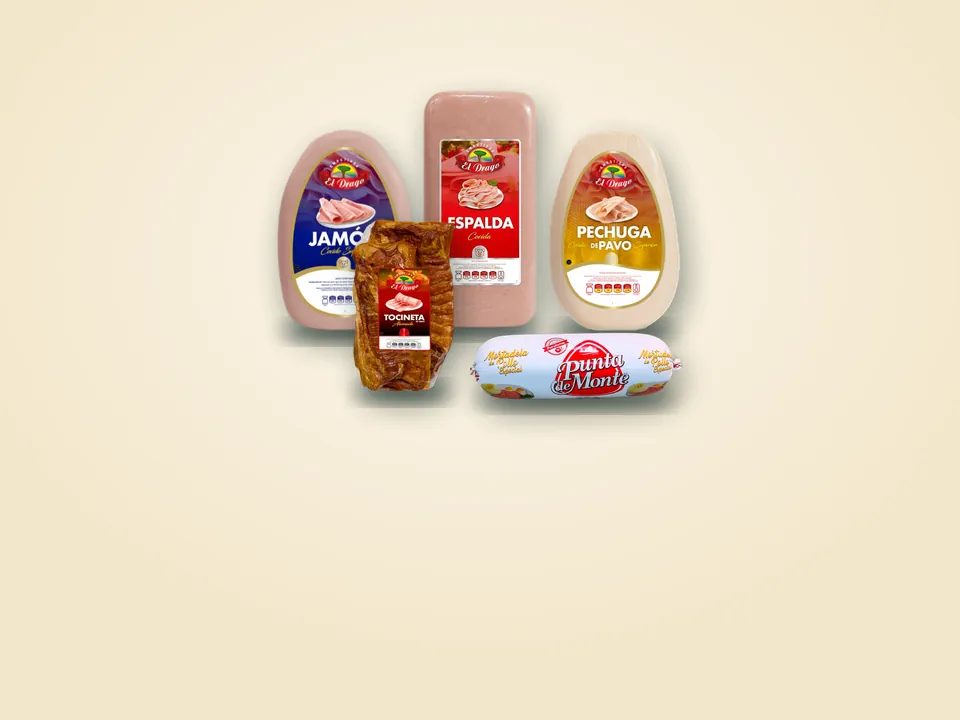
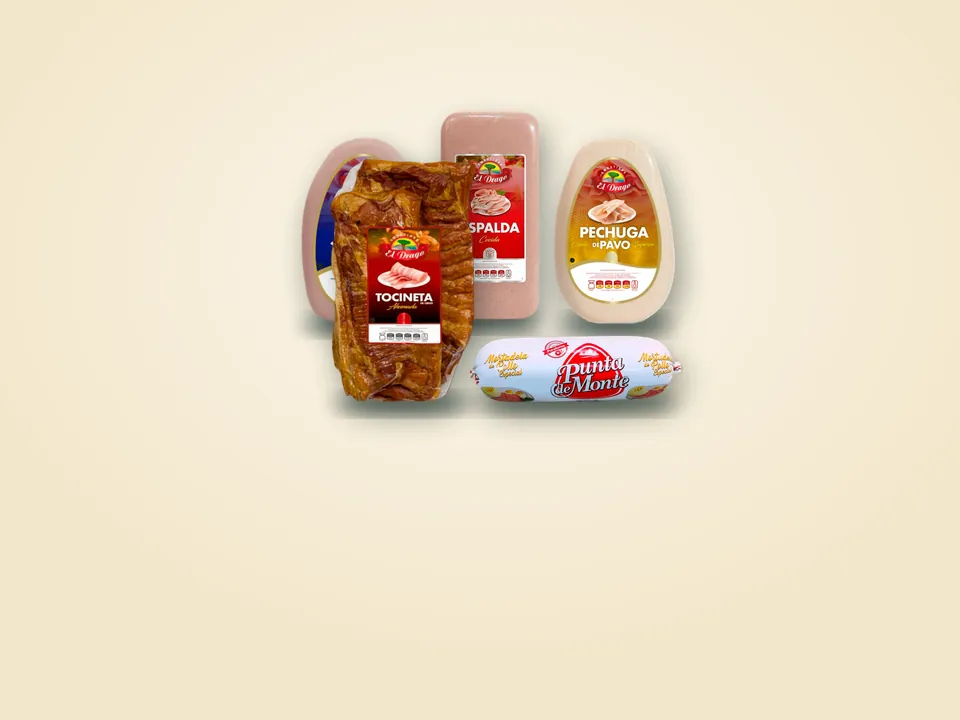
La charcutería en la web, sin el Kemmental y con la tocineta más grande que el jamón.
El dueño: «añade a mi página web todo lo que ya tengo en la charcutería», «quita ese diseño el
emmental, no lo vendo», «la tocineta ya sabes que es más grande». Los productos van en la base
(costo de la lista del detal + 10 %, unidos a ella); aquí, lo que cambia en el código y las fotos:
- La portada y las familias Quesos, Embutidos y Burger, sin el Kemmental (va el Mi Vallecito) y con
  la tocineta delante y más grande que los jamones; en los combos, la tocineta pasa de 28 a 36 cm.
- En la página de un tipo, un artículo sin foto propia ya no se enseña con la de otra marca (Punta
  de Monte salía con el paquete de Alibal): la del tipo, la de referencia o el león.

Changed region(s): [[0.2812, 0.1222, 0.7188, 0.6111]]

diff --git a/scripts/fotos-web.ts b/scripts/fotos-web.ts
@@ -38,13 +38,14 @@ const ESCENAS: Escena[] = [
     fondo: VERDE_HONDO,
     luz: "rgba(240, 194, 79, 0.30)",
     piezas: [
-      { foto: "jamon-de-pierna", x: 0.55, apoyo: 0.77, alto: 0.44 },
-      { foto: "queso-kemmental", x: 0.67, apoyo: 0.76, alto: 0.53 },
-      { foto: "jamon-de-espalda", x: 0.79, apoyo: 0.77, alto: 0.51 },
-      { foto: "tocineta", x: 0.515, apoyo: 0.9, alto: 0.37 },
-      { foto: "mozzarella", x: 0.62, apoyo: 0.91, alto: 0.31 },
-      { foto: "queso-amarillo", x: 0.735, apoyo: 0.92, alto: 0.42 },
-      { foto: "pecorino-sortilegio", x: 0.845, apoyo: 0.93, alto: 0.26 },
+      // La tocineta, delante y más grande que el jamón, como es (el dueño, 15/11/2026); el jamón de pierna, que quedaba
+      // tapado detrás de ella, sale en la del teléfono y en Embutidos.
+      { foto: "queso-amarillo-vallecito", x: 0.7, apoyo: 0.76, alto: 0.5 },
+      { foto: "jamon-de-espalda", x: 0.81, apoyo: 0.77, alto: 0.47 },
+      { foto: "tocineta", x: 0.555, apoyo: 0.93, alto: 0.56 },
+      { foto: "mozzarella", x: 0.665, apoyo: 0.92, alto: 0.31 },
+      { foto: "queso-amarillo", x: 0.775, apoyo: 0.93, alto: 0.42 },
+      { foto: "pecorino-sortilegio", x: 0.88, apoyo: 0.94, alto: 0.26 },
     ],
   },
   // En el teléfono: los productos arriba, en el centro; abajo, el verde donde monta el título.
@@ -55,13 +56,13 @@ const ESCENAS: Escena[] = [
     fondo: VERDE_HONDO,
     luz: "rgba(240, 194, 79, 0.32)",
     piezas: [
-      { foto: "jamon-de-pierna", x: 0.23, apoyo: 0.58, alto: 0.37 },
-      { foto: "queso-kemmental", x: 0.5, apoyo: 0.57, alto: 0.46 },
-      { foto: "jamon-de-espalda", x: 0.77, apoyo: 0.58, alto: 0.44 },
-      { foto: "tocineta", x: 0.17, apoyo: 0.73, alto: 0.31 },
-      { foto: "mozzarella", x: 0.39, apoyo: 0.74, alto: 0.26 },
-      { foto: "queso-amarillo", x: 0.61, apoyo: 0.75, alto: 0.36 },
-      { foto: "pecorino-sortilegio", x: 0.84, apoyo: 0.76, alto: 0.21 },
+      { foto: "jamon-de-pierna", x: 0.36, apoyo: 0.58, alto: 0.35 },
+      { foto: "queso-amarillo-vallecito", x: 0.57, apoyo: 0.57, alto: 0.42 },
+      { foto: "jamon-de-espalda", x: 0.79, apoyo: 0.58, alto: 0.4 },
+      { foto: "tocineta", x: 0.18, apoyo: 0.75, alto: 0.47 },
+      { foto: "mozzarella", x: 0.42, apoyo: 0.75, alto: 0.25 },
+      { foto: "queso-amarillo", x: 0.63, apoyo: 0.76, alto: 0.35 },
+      { foto: "pecorino-sortilegio", x: 0.85, apoyo: 0.77, alto: 0.2 },
     ],
   },
   // Las familias y las colecciones, en 4:3. La misma foto sale en la tarjeta (cuadrada en el teléfono, apaisada en la
@@ -75,7 +76,7 @@ const ESCENAS: Escena[] = [
     luz: "rgba(255, 248, 225, 0.55)",
     alturaDeLaLuz: 0.36,
     piezas: [
-      { foto: "queso-kemmental", x: 0.39, apoyo: 0.47, alto: 0.32 },
+      { foto: "queso-amarillo-vallecito", x: 0.39, apoyo: 0.47, alto: 0.33 },
       { foto: "queso-amarillo", x: 0.55, apoyo: 0.48, alto: 0.33 },
       { foto: "mozzarella", x: 0.45, apoyo: 0.545, alto: 0.21 },
       { foto: "pecorino-sortilegio", x: 0.63, apoyo: 0.55, alto: 0.17 },
@@ -89,11 +90,11 @@ const ESCENAS: Escena[] = [
     luz: "rgba(255, 255, 255, 0.6)",
     alturaDeLaLuz: 0.36,
     piezas: [
-      { foto: "jamon-de-pierna", x: 0.36, apoyo: 0.46, alto: 0.28 },
-      { foto: "jamon-de-espalda", x: 0.5, apoyo: 0.455, alto: 0.33 },
-      { foto: "pechuga-de-pavo-drago", x: 0.64, apoyo: 0.46, alto: 0.28 },
-      { foto: "tocineta", x: 0.42, apoyo: 0.545, alto: 0.24 },
-      { foto: "mortadela-punta-de-monte", x: 0.6, apoyo: 0.555, alto: 0.095, giro: -90 },
+      { foto: "jamon-de-pierna", x: 0.38, apoyo: 0.45, alto: 0.26 },
+      { foto: "jamon-de-espalda", x: 0.51, apoyo: 0.445, alto: 0.29 },
+      { foto: "pechuga-de-pavo-drago", x: 0.64, apoyo: 0.45, alto: 0.26 },
+      { foto: "tocineta", x: 0.42, apoyo: 0.56, alto: 0.34 },
+      { foto: "mortadela-punta-de-monte", x: 0.6, apoyo: 0.56, alto: 0.095, giro: -90 },
     ],
   },
   {
@@ -126,11 +127,11 @@ const ESCENAS: Escena[] = [
     luz: "rgba(240, 194, 79, 0.32)",
     alturaDeLaLuz: 0.36,
     piezas: [
-      { foto: "queso-kemmental", x: 0.39, apoyo: 0.47, alto: 0.31 },
-      { foto: "jamon-de-espalda", x: 0.6, apoyo: 0.47, alto: 0.32 },
-      { foto: "tocineta", x: 0.44, apoyo: 0.55, alto: 0.24 },
-      { foto: "queso-amarillo", x: 0.53, apoyo: 0.555, alto: 0.28 },
-      { foto: "salchichas", x: 0.66, apoyo: 0.56, alto: 0.15 },
+      { foto: "queso-amarillo-vallecito", x: 0.38, apoyo: 0.47, alto: 0.31 },
+      { foto: "jamon-de-espalda", x: 0.61, apoyo: 0.47, alto: 0.29 },
+      { foto: "tocineta", x: 0.45, apoyo: 0.56, alto: 0.34 },
+      { foto: "queso-amarillo", x: 0.56, apoyo: 0.56, alto: 0.27 },
+      { foto: "salchichas", x: 0.67, apoyo: 0.565, alto: 0.15 },
     ],
   },
   {

diff --git a/src/app/producto/[producto]/page.tsx b/src/app/producto/[producto]/page.tsx
@@ -140,6 +140,9 @@ export default async function PaginaProducto({ params, searchParams }: Parametro
     .map((r) => ({ ...r, etiqueta: variantes.length > 1 && r.variante_id ? (variantes.find((m) => m.id === r.variante_id)?.marca || r.variante_nombre) : null }));
   const ventajas = [...new Set([...ventajasDe(producto.descripcion), ...(unico ? ventajasDe(unico.descripcion) : [])])];
   const imagen = imagenDeProducto(direccionDeFotoDeProducto(producto), producto.nombre, fotoDeAlgunaVariante(variantes));
+  // Un artículo sin foto propia no se enseña con la de otra marca (Punta de Monte con el paquete de Alibal): la del tipo,
+  // la de referencia o el león, como en la página de cada marca.
+  const sinFotoPropia = imagenDeProducto(direccionDeFotoDeProducto(producto), producto.nombre);
   const familia = v.todasLasFamilias.find((f) => f.id === producto.familia_id) ?? null;
   // Debajo, primero los de su misma familia (los otros quesos), después los que comparten con él un negocio o una familia
   // (la mozzarella y los jamones, en Pizzería) y, si no hay ninguno, otros cualquiera. El título dice cuál es el caso.
@@ -253,7 +256,7 @@ export default async function PaginaProducto({ params, searchParams }: Parametro
                     <li key={m.id} className={estilos.variante}>
                       <Link href={ruta} className={estilos.varianteEnlace} aria-label={`Ver ${producto.nombre} ${m.nombre}`}>
                         <FotoDeProducto
-                          imagen={suFoto ? { src: suFoto, referencial: false } : imagen}
+                          imagen={suFoto ? { src: suFoto, referencial: false } : sinFotoPropia}
                           nombre={`${producto.nombre} ${m.nombre}`}
                           className={estilos.varianteFoto}
                           aviso

diff --git a/publicidad/combos-datos.js b/publicidad/combos-datos.js
@@ -25,7 +25,8 @@ const CM = {
   "pechuga-de-pavo-ahumada": 29,
   huevos: 9,
   salchichas: 17,
-  tocineta: 28,
+  // Más grande que los jamones, como es (el dueño, 15/11/2026: «la tocineta ya sabes que es más grande»); era de 28.
+  tocineta: 36,
   // Casi tan alta como el queso amarillo: con 30, en el combo 9 el queso se veía muy pequeño a su lado (el dueño, 13/11).
   "mortadela-punta-de-monte": 27,
   "pan-de-sandwich": 34,

diff --git a/README.md b/README.md
@@ -1483,6 +1483,23 @@ Binance y otro.
   los huevos por caja o por unidad son presentaciones de Huevos, los
   refrescos individuales y familiares, de Refrescos, y las papas ralladas
   son los hash browns.
+- **La charcutería en la web** (el dueño, 15/11/2026: «añade a mi página web
+  todo lo que ya tengo en la charcutería en las facturas que te he pasado»).
+  Cada producto de la charcutería de la lista del detal que se sigue
+  comprando es un artículo del catálogo, con su marca, y está unido a su
+  producto de la lista (`lista_detal.producto_id`, `variante_id`): las
+  facturas siguientes le cambian el costo solas. El precio al mayor es el
+  costo más un 10 % (`margen_pct` del tipo), la misma regla de la mozzarella
+  y del Sortilegio. En Embutidos, por secciones: Jamones (de espalda, de
+  pierna, ahumado, arepero), Pavo (pechuga), Mortadelas y boloña (la
+  mortadela por kilo, la «Mortadela en pieza» de 1 kg y 500 g, que va por
+  unidad, y la boloña de pollo), Salchichas (de paquete y a granel) y
+  Tocineta; en Quesos, el queso amarillo (El Legado y Mi Vallecito; el
+  Kemmental, que no se vende, escondido) y el pecorino; en Lácteos, los
+  sueros y las cremas de leche. Lo que la lista marca «ya no se compra» no
+  entra. Las fotos son las de su mercancía recortada (`publicidad/fotos/`);
+  un artículo sin foto propia se enseña con la del tipo, la de referencia o
+  el león, nunca con la de otra marca.
 - **Ofertas y combos** (`/admin/ofertas`): cada oferta tiene nombre,
   descripción, precio en dólares (vacío: «consulta el precio»), fechas
   desde y hasta (vacías: sin límite), estado (borrador, activa, inactiva),
@@ -1600,7 +1617,9 @@ Binance y otro.
   la dirección y la ubicación para el próximo pedido. Las cuentas, con
   pruebas, en `src/lib/delivery.ts`; la portada, «Cómo comprar» y el pie
   dicen que hay delivery.
-- **Las fotos** de la portada y de las familias son, desde el 13/11/2026,
+- **Las fotos** de la portada y de las familias (desde el 15/11/2026, sin el
+  Kemmental, que no se vende: va el Mi Vallecito; y la tocineta más grande
+  que los jamones, como es) son, desde el 13/11/2026,
   **la mercancía del negocio sobre color** (al dueño no le gustaban las
   fotos de comida de internet: «nada, ni el de la hamburguesa, quesos,
   nada»): sus productos recortados (los de las hojas de los combos y los
@@ -1821,12 +1840,12 @@ Binance y otro.
 - El RIF está al día: el comprobante digital (formato nuevo, sin fecha de
   vencimiento) dice «Última actualización 19/08/2026», con el mismo
   domicilio fiscal de `negocio.ts`. Contribuyente ordinario del IVA.
-- Poner los precios reales: el de los huevos es de ejemplo y el panel lo
-  avisa; las marcas del queso amarillo / cheddar (Kemmental, El Legado) y
-  del pecorino (Sortilegio, Guaralac) están creadas con su foto y sin
-  precio, y la web dice «consulta el precio del día». El pecorino se vende
-  en bolsa de 500 g, por unidad. El de la mozzarella (7,70 USD el kilo) es
-  real.
+- El precio de los huevos es de ejemplo y el panel lo avisa. La
+  charcutería tiene precio desde el 15/11/2026 (costo de la lista + 10 %).
+- Fotos de los artículos de la charcutería que no tienen la suya (Magro's,
+  la mortadela tapara, las mortadelas en pieza de 1 kg y la Punta de Monte
+  de 500 g, las salchichas a granel, la tocineta Cumbre Fresca y casi todo
+  San Pedro): se suben en la ficha de cada marca.
 - Ver si Guaralac (la marca del pecorino) y Guaralact (la del suero) son
   la misma: si lo son, unirlas en Productos → Marcas.
 - Fotos propias de los productos: hoy llevan una foto de referencia, marcada
